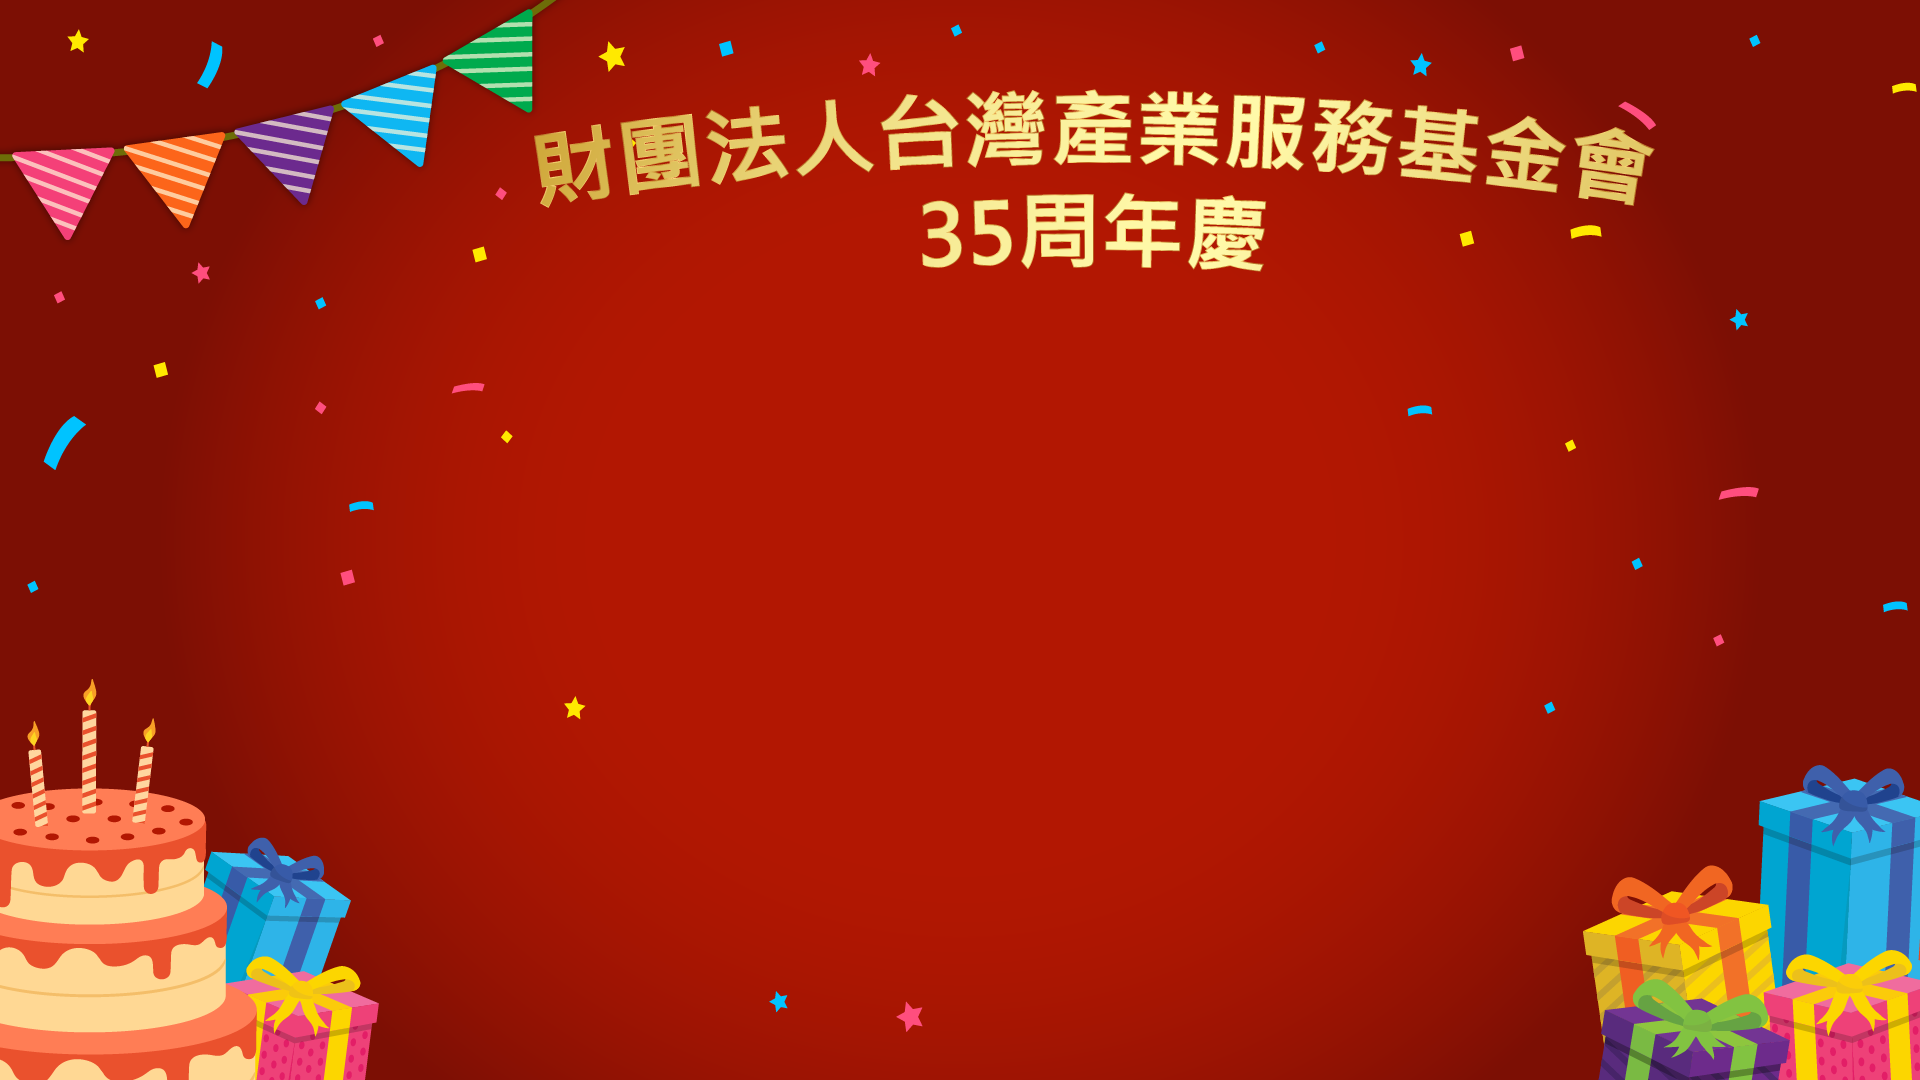
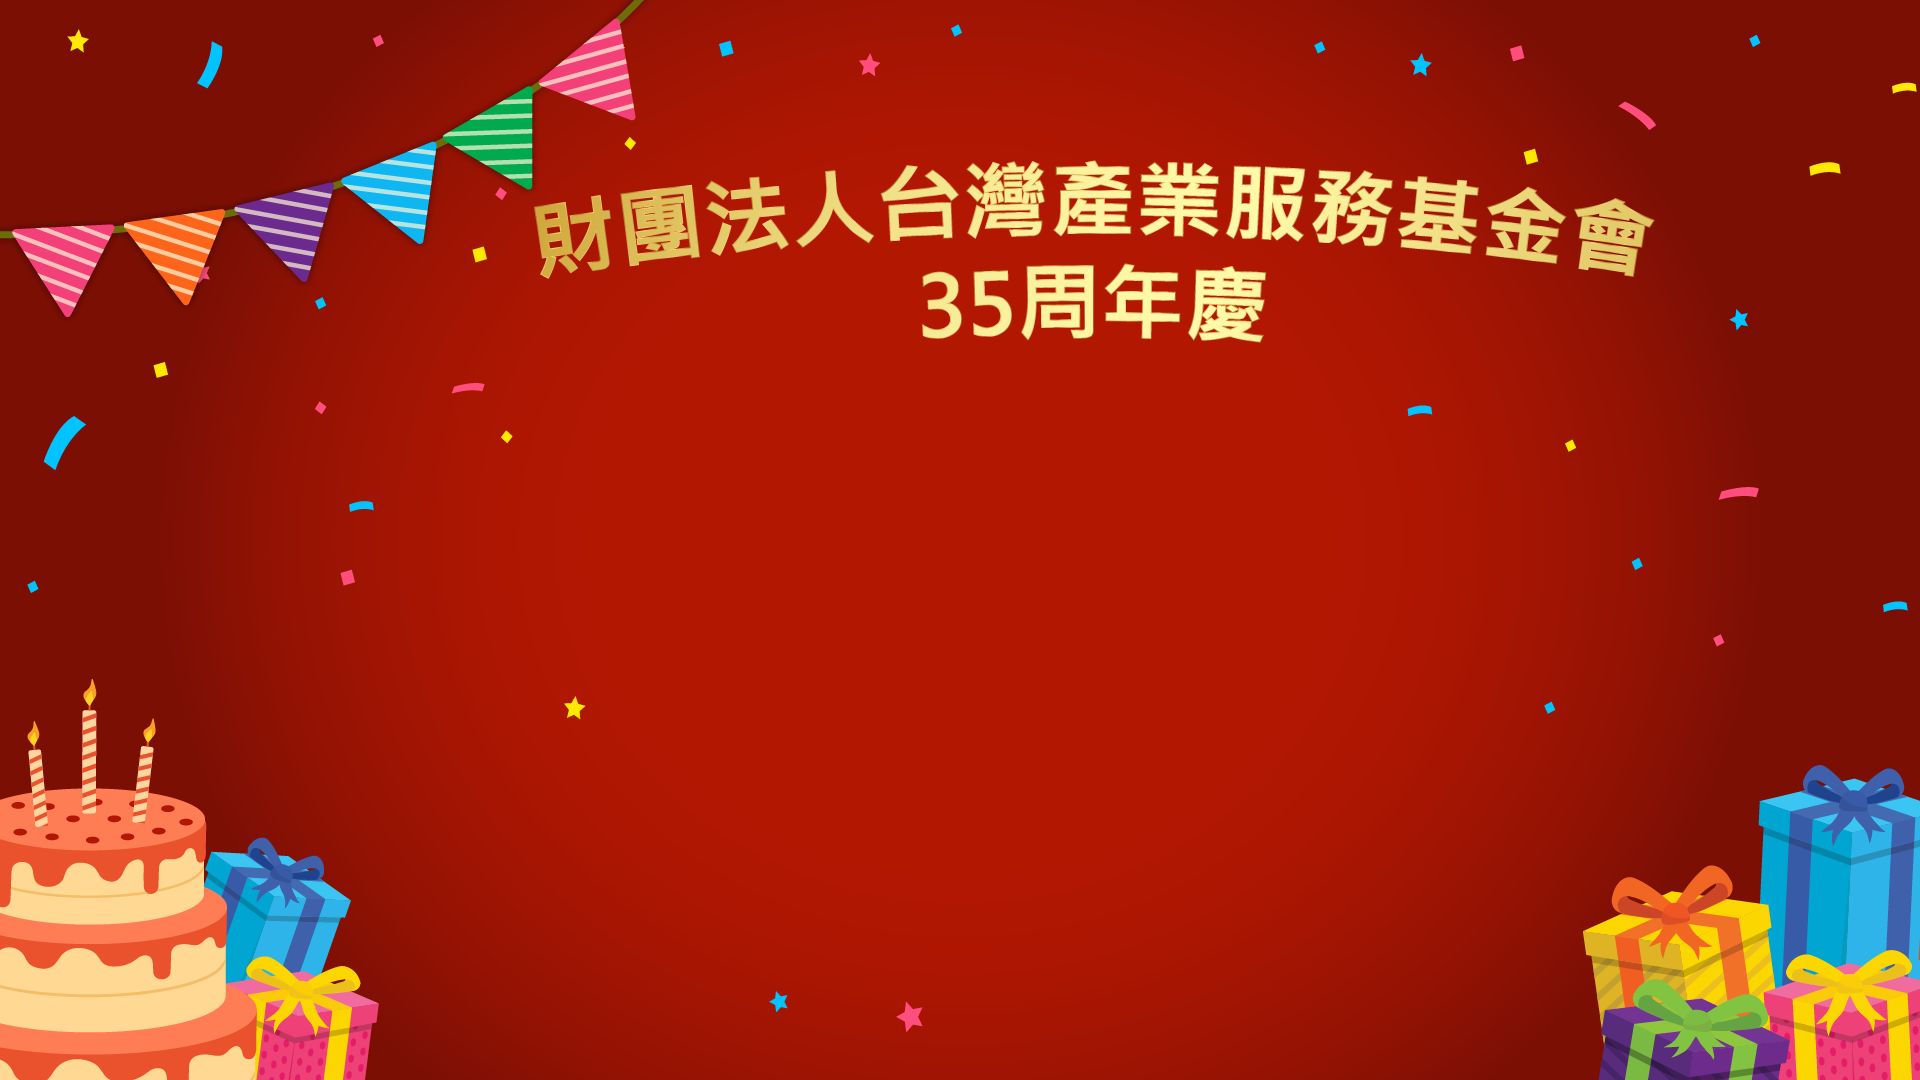
修改抽獎區域position

Changed region(s): [[0.0, 0.0, 0.875, 0.3361], [0.9375, 0.1528, 0.9688, 0.1833]]

diff --git a/css/style.css b/css/style.css
@@ -57,7 +57,7 @@ h3 {
   align-items: start;
   justify-content: center;
   gap: 3.5rem;
-  margin-top: 18%;
+  margin-top: 15%;
   position: relative;
   z-index: 5;
 }
